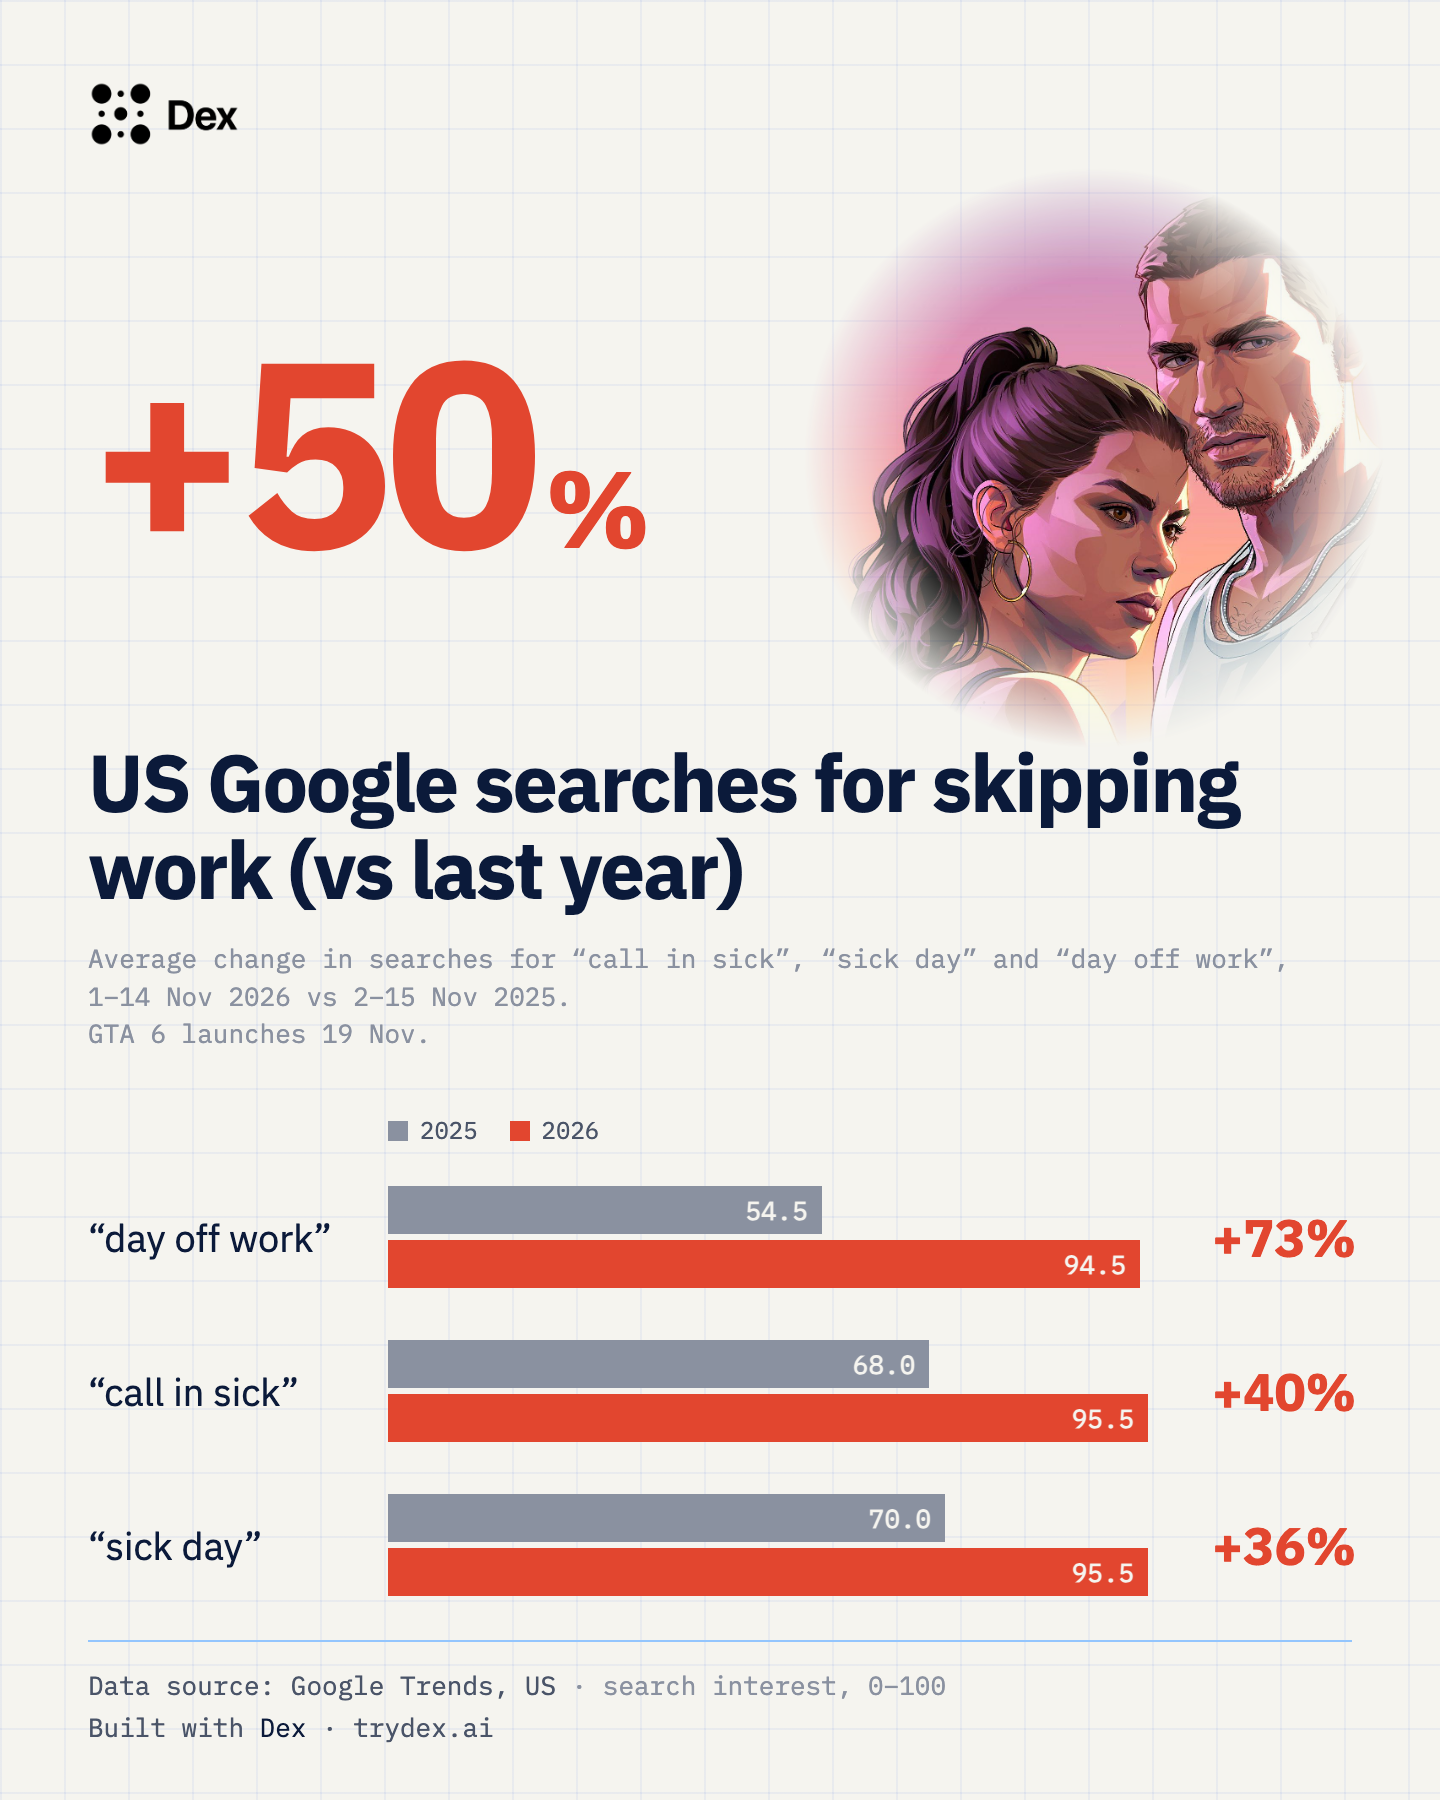
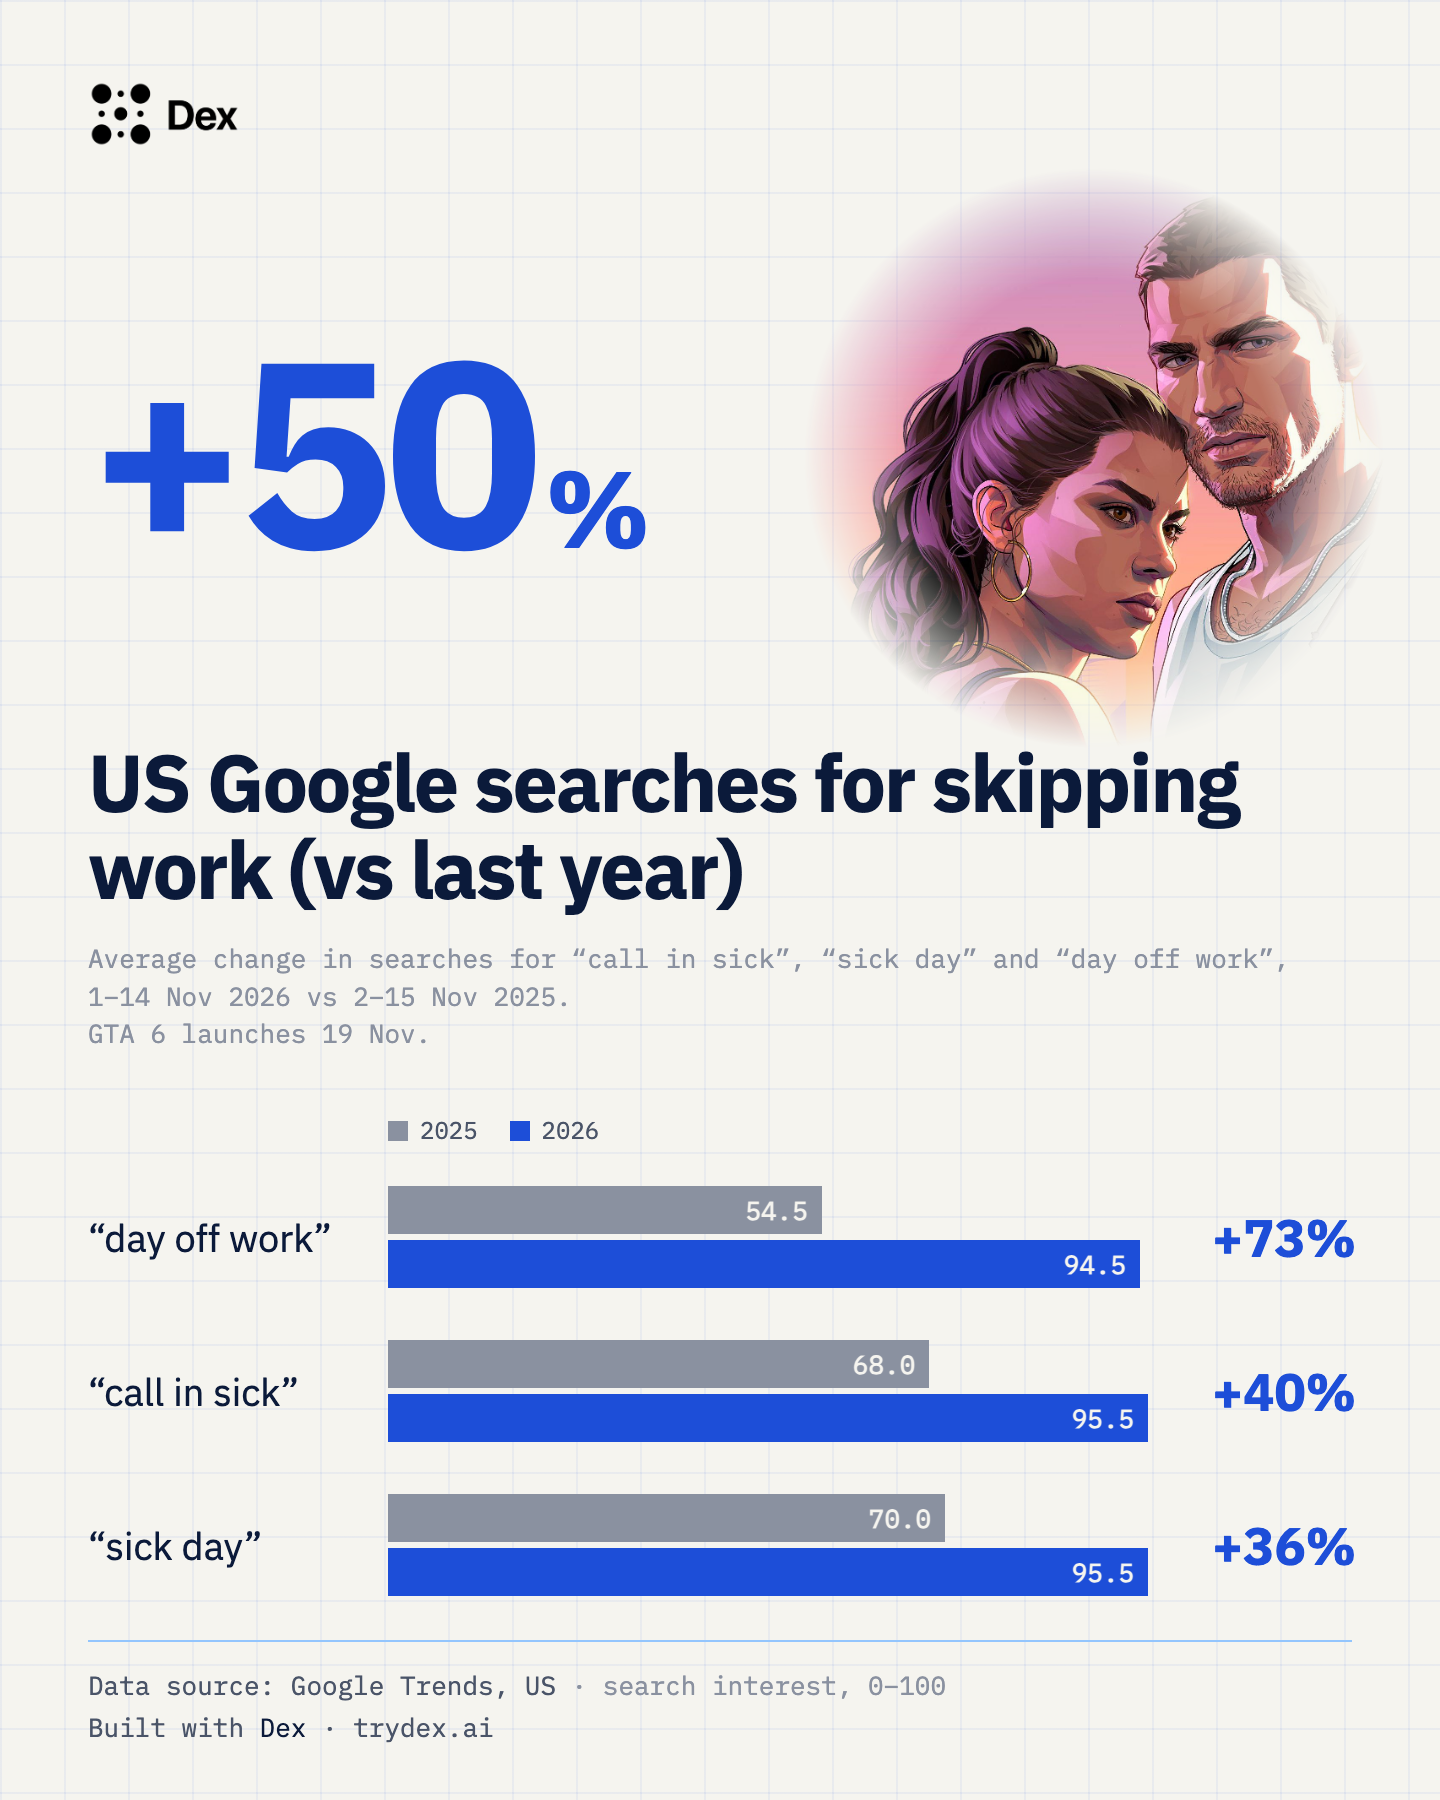
Chart and scoreboard in the brand accent blue, not redline
brand/dex-site.css keeps redline for warnings; --accent is the blue linework.

diff --git a/site/index.html b/site/index.html
@@ -37,7 +37,7 @@
   header img { height: 30px; }
   .meta { font: 14px var(--font-mono); color: var(--dex-line); text-transform: uppercase; letter-spacing: 1px; }
   h1 { font-size: clamp(32px, 6vw, 60px); line-height: 1.04; letter-spacing: -1.5px; margin: 36px 0 12px; }
-  h1 em { font-style: normal; color: var(--dex-redline); }
+  h1 em { font-style: normal; color: var(--dex-line); }
   .lede { font-size: clamp(18px, 2.4vw, 22px); line-height: 1.45; color: var(--dex-ink-muted); max-width: 860px; }
   .countdown { font: 15px var(--font-mono); color: var(--dex-ink); border: 1px solid var(--dex-line); background: var(--dex-paper-raised); display: inline-block; padding: 10px 14px; margin-top: 8px; }
   figure { margin: 36px 0 0; }
@@ -63,7 +63,7 @@
 <main>
 <header>
   <img id="logo" alt="Dex" src="brand/assets/dex-logo-black.png">
-  <span class="meta">GTA 6 vs. productivity · updated 2026-11-16 23:55 UTC</span>
+  <span class="meta">GTA 6 vs. productivity · updated 2026-11-16 23:57 UTC</span>
 </header>
 <h1>Day-Off Index: <em>+50%</em>.</h1>
 <p class="lede">US Google searches for skipping work, 1–14 Nov 2026 against 2–15 Nov 2025: call in sick +40.4% · day off work +73.4% · sick day +36.4%. The index is the average of the three. GTA 6 comes out on Thursday 19 November.</p>

diff --git a/brand/charts.css b/brand/charts.css
@@ -47,7 +47,7 @@ h1 .red { color: var(--dex-redline); }
 
 /* Hero: the number, the headline, then the breakdown */
 .hero { display: flex; flex-direction: column; justify-content: center; gap: 40px; flex: 1; }
-.big { font-size: 112px; line-height: .8; letter-spacing: -5px; font-weight: 700; color: var(--dex-redline); }
+.big { font-size: 112px; line-height: .8; letter-spacing: -5px; font-weight: 700; color: var(--accent); }
 .big small { font-size: 54px; letter-spacing: 0; margin-left: 6px; }
 .hero h1 { margin-top: 18px; font-size: 32px; letter-spacing: -0.9px; }
 .fine { margin: 8px 0 0; font: 12px/1.45 var(--font-mono); color: var(--dex-ink-faint); }
@@ -68,8 +68,8 @@ h1 .red { color: var(--dex-redline); }
 .yoy .pair b { display: flex; align-items: center; justify-content: flex-end; height: 20px; padding-right: 7px;
   font: 600 13px var(--font-mono); color: var(--dex-paper); }
 .yoy .prior { background: var(--dex-ink-faint); }
-.yoy .current { background: var(--dex-redline); }
-.yoy .change { font-size: 24px; font-weight: 700; color: var(--dex-redline); }
+.yoy .current { background: var(--accent); }
+.yoy .change { font-size: 24px; font-weight: 700; color: var(--accent); }
 
 /* Lift bars */
 .bars { display: grid; gap: 10px; margin-top: 8px; }

diff --git a/src/gta6_impact/site.py b/src/gta6_impact/site.py
@@ -52,7 +52,7 @@ PAGE = """<!doctype html>
   header img {{ height: 30px; }}
   .meta {{ font: 14px var(--font-mono); color: var(--dex-line); text-transform: uppercase; letter-spacing: 1px; }}
   h1 {{ font-size: clamp(32px, 6vw, 60px); line-height: 1.04; letter-spacing: -1.5px; margin: 36px 0 12px; }}
-  h1 em {{ font-style: normal; color: var(--dex-redline); }}
+  h1 em {{ font-style: normal; color: var(--dex-line); }}
   .lede {{ font-size: clamp(18px, 2.4vw, 22px); line-height: 1.45; color: var(--dex-ink-muted); max-width: 860px; }}
   .countdown {{ font: 15px var(--font-mono); color: var(--dex-ink); border: 1px solid var(--dex-line); background: var(--dex-paper-raised); display: inline-block; padding: 10px 14px; margin-top: 8px; }}
   figure {{ margin: 36px 0 0; }}
